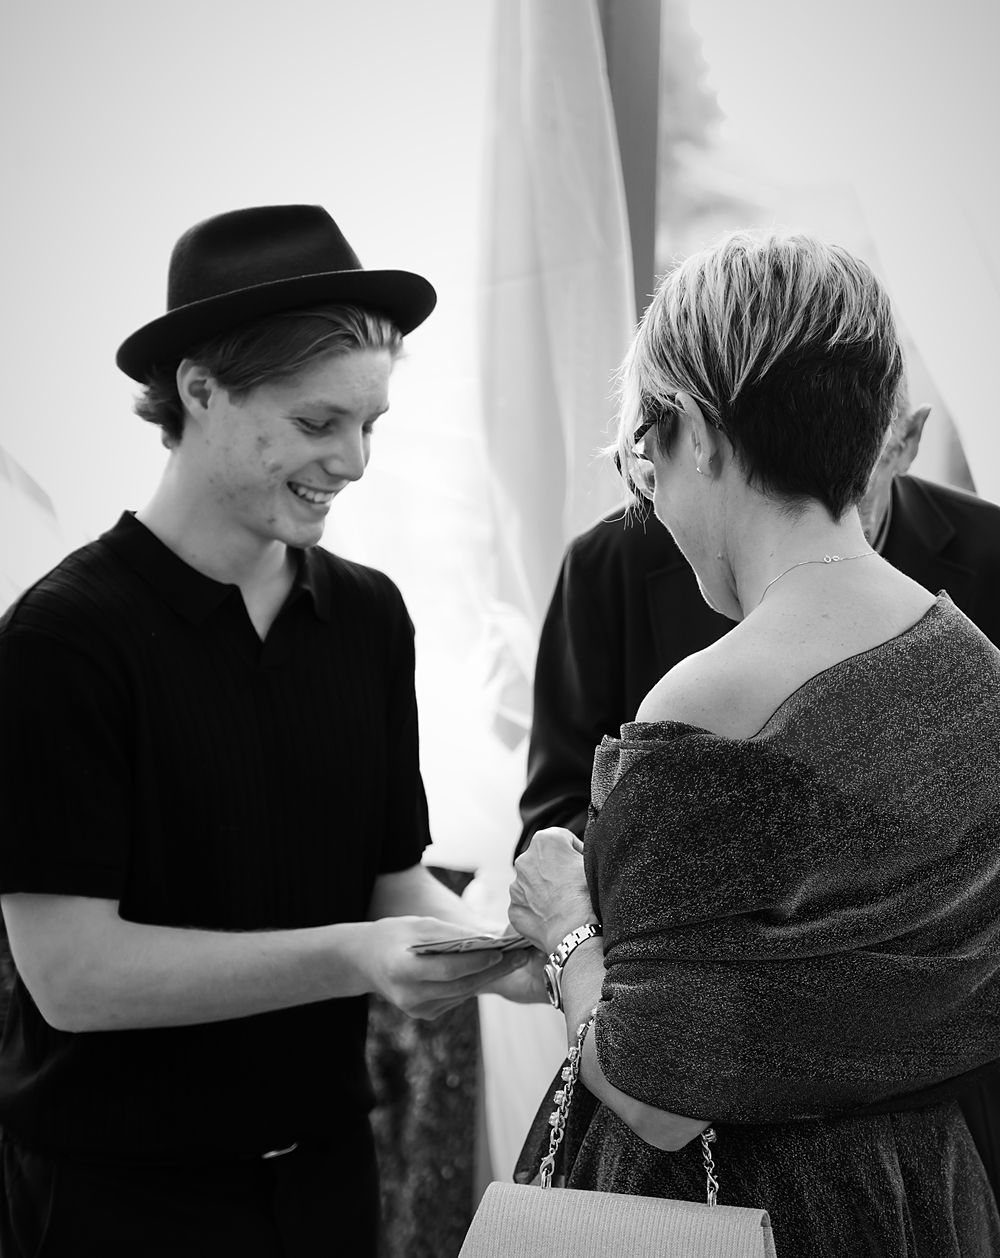
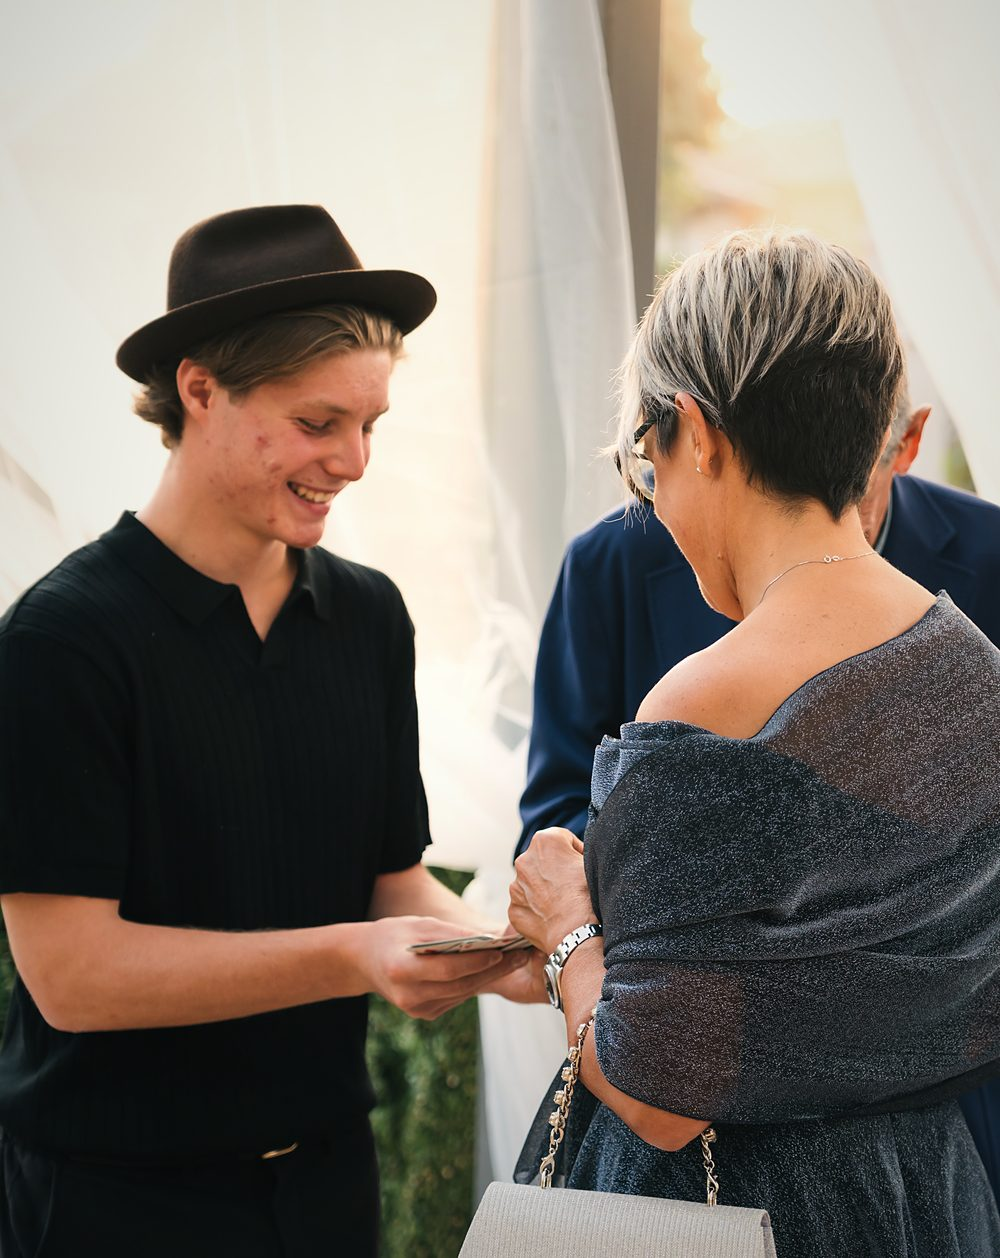
Richieste di Maxime: foto a colori, 3 M, telefono in primo piano, Instagram
- Firma "Mago Maxime" in alto e nel menu
- Apertura: Magia · Meraviglia · Memoria, pulsante Chiama
- Foto a colori ovunque tranne la scena in Lo spettacolo
- Chi sono: nuovi testi, firma e citazione
- Servizi: nuovi testi Illusionismo e Ipnosi; due foto in più tra gli ospiti
- Prenota: numero grande, WhatsApp e Instagram; barra Chiama su telefono
- Footer: nuova foto e blocco Instagram

diff --git a/DESIGN.md b/DESIGN.md
@@ -158,7 +158,7 @@ A two-material palette: void-black stage and chalk card stock, with ash greys fo
 - **Card Red** (red, #c8102e): the red of a real deck. It has exactly three jobs: hearts and diamonds (every `Suit` named cuori/quadri renders red), the primary ticket buttons (Prenota, Invia: red with chalk text, 5:1), and the red full stop (`<span class="pip">.</span>`) that closes each section heading. Text selection and `accent-color` follow it. Red on void is 3.4:1, so it is never used for body text on dark.
 
 ### Named Rules
-**The One Red Rule.** Red means "card", "book him" or "the curtain" (the menu's velvet drapes, a darker red family #3a0510–#a3162b). Never use it for decoration, borders, backgrounds of sections or body copy; if a new element wants red, it must be a heart/diamond or the booking action.
+**The One Red Rule.** In the interface (photos carry their own colour), red means "card", "book him" or "the curtain" (the menu's velvet drapes, a darker red family #3a0510–#a3162b). Never use it for decoration, borders, backgrounds of sections or body copy; if a new element wants red, it must be a heart/diamond or the booking action.
 
 **The Light Is Not A Colour Rule.** The follow-spot, house glow and beam are translucent warm-white over the void (`rgba(255, 252, 244, …)` at 0.02–0.11). Never tint light, never add an accent hue.
 
@@ -279,27 +279,37 @@ Every corner is rounded:
 - **Disabled submit:** 55% opacity with a progress cursor and an "Invio in corso…" label.
 
 ### Navigation
-- **Logo: the signature.** "Maxime" in a pen-signature hand with an underline swash (`src/components/Firma.astro`, pure SVG paths outlined from Herr Von Muellerhoff, SIL OFL), no capsule. It is drawn left to right as the page opens (1.5s clip reveal). It reads the first painted background beneath it and switches between chalk (dark ground, with a dark halo) and ink (light ground, with a chalk halo) so whatever scrolls under it never cuts the strokes. On phones (≤760px) it leaves the corner once the hero is passed; with the menu open it leaves the corner on every size and appears instead, large and chalk, on the closed curtain above the sections. The Menu control keeps its opaque void capsule.
+- **Logo: the signature.** "Mago Maxime" (nav and menu; plain "Maxime" as the signature under Chi sono) in a pen-signature hand with an underline swash (`src/components/Firma.astro`, pure SVG paths outlined from Herr Von Muellerhoff, SIL OFL), no capsule. It is drawn left to right as the page opens (1.5s clip reveal). It reads the first painted background beneath it and switches between chalk (dark ground, with a dark halo) and ink (light ground, with a chalk halo) so whatever scrolls under it never cuts the strokes. On phones (≤760px) it leaves the corner once the hero is passed; with the menu open it leaves the corner on every size and appears instead, large and chalk, on the closed curtain above the sections. The Menu control keeps its opaque void capsule.
 - "Prenota" is a red ticket stub. It is hidden below 560px; the menu stays.
 - **Menu: the stage curtain.** Opening it, two red velvet drapes (vertical folds, shadowed creases, light from above) slide in from the sides and unfurl until they meet: fast then settling (0.75s expo-out). Closing is the reverse feel: they part slowly, then whip away (0.65s ease-in). The sections are then written on the closed curtain in chalk Archivo, centred, with WhatsApp, email and Instagram below. Picking a section jumps the page behind the closed curtain, then the drapes part on that scene. Escape closes it, scroll is locked, the red nav ticket hides while it is open, and reduced motion swaps the movement for a fade.
 
 ### Booking (Prenota)
-- Under the heading, two ghost pills side by side: WhatsApp and Chiama (tel:), the ways to book without a form.
+- Under the heading, the phone first: "Chiamami" and the number set large (tel:, red phone glyph), then WhatsApp and Instagram pills side by side.
 - The ticket form asks only: event type (four suit chips), Nome*, Data dell'evento, Telefono o email* (one field, validated as a phone number or an email). No message field.
 - Phones (≤760px): the contact stub is hidden, since WhatsApp and Chiama already sit above the form; the form padding tightens. Wider screens keep the stub with name, channels and zone.
 
+### Hero
+- MAXIME (wordmark), then the rule of the three M stacked: MAGIA / MERAVIGLIA / MEMORIA in uppercase Archivo (500, 115% width, 1.9–3.4rem), each initial M in card red.
+- Actions: the red ticket **Chiama** (tel:, the number shown from 900px), WhatsApp (square key on phones, pill on desktop) and, on desktop only, a ghost pill "Richiedi un preventivo" to the form.
+
+### Chi sono
+- Title "Tu credi nella *magia*?" with a red question mark; his paragraph with the words he wrote in capitals set as uppercase semibold; on the side the hands photo, "Non esibisco uno spettacolo preconfezionato…", his signature; then the quote with "— Maxime".
+
+### Instagram
+- A block of its own in the footer (red Instagram glyph, "Seguimi su Instagram", the handle large) plus an Instagram pill beside WhatsApp in Prenota and in the contact stub.
+
 ### Footer
-- One last photo of Maxime on stage (`saluto.jpg` landscape, `saluto-telefono.jpg` 4:5 via `Photo`'s `mobile` prop) with "Ci vediamo alla prossima serata." and the red Prenota ticket.
+- One last photo of Maxime laughing among the guests (`saluto.jpg` landscape, `saluto-telefono.jpg` 4:5 via `Photo`'s `mobile` prop) with "Ci vediamo alla prossima serata." and the red Prenota ticket.
 - Phones: a 4:5 rounded card, words and ticket over a bottom gradient. ≥900px: words and ticket on the stage at the left (5fr), the photo at 3:2 on the right (7fr).
-- Below: Instagram, TikTok, YouTube and the © line in ash. No giant wordmark, no suit row.
+- Then the Instagram block, then Instagram, TikTok, YouTube and the © line in ash. No giant wordmark, no suit row.
 
 ### Mobile Booking Bar
-- Phones only (≤ 760px): a void capsule (22px radius) floating 12px above the bottom safe area, holding a full-width red ticket "Prenota" and a 52px WhatsApp button. It hides on the hero, the ticket act, the footer and when the menu is open.
+- Phones only (≤ 760px): a void capsule (22px radius) floating 12px above the bottom safe area, holding a full-width red ticket "Chiama" (tel:) and a 52px WhatsApp button. It hides on the hero (measured by scroll, since the hero is a sticky panel), on the booking act, the footer and when the menu is open.
 
 ### Photo slots
 - `public/maxime/ritratto|mani|scena.(jpg|png|webp)` render in grayscale. An optional `showreel.mp4` replaces the hero portrait. A missing file shows a dark slot naming the file to add.
-- The files are pre-graded to black and white (channel mix, S-curve, vignette; the hero background is darkened through a subject mask), so CSS only applies `grayscale(1)` as a guard. `Photo` takes an optional `position` (object-position) to keep Maxime in frame on phone and desktop crops.
-- **Live gallery** (end of Lo spettacolo): `live-1…4` at 4:5, rounded 18px, tilted ±1.2–1.4° like cards on the table. Phones swipe through a scroll-snap row; desktop shows four columns with the even ones dropped.
+- The photos are in **colour** (warm, gently contrasted, saturation +12%, soft vignette; the hero background is darkened through a subject mask). Only the stage photo in Lo spettacolo (`scena.jpg`) is graded black and white. CSS applies no filter. `Photo` takes an optional `position` (object-position) to keep Maxime in frame on phone and desktop crops.
+- **Live gallery** (end of Lo spettacolo): `live-1…5` at 4:5 (five columns on desktop), rounded 18px, tilted ±1.2–1.4° like cards on the table. Phones swipe through a scroll-snap row; desktop shows four columns with the even ones dropped.
 
 ### Theatre bill (Lo spettacolo)
 - The three arts are set as a playbill: each name in thin, expanded, uppercase Archivo (250, 118% width, clamp 2.1–4.6rem) with its small suit glyph, one ash line beside it (≥1000px) or under it. Hairlines between rows. The spiral glyph has 2.5 open turns so it holds at icon size.

diff --git a/PRODUCT.md b/PRODUCT.md
@@ -16,10 +16,12 @@ web
 Sito vetrina di Maxime, mago, illusionista e ipnotista. Deve far capire in pochi secondi che tipo di artista è, mostrare le tre arti (magia, illusionismo, ipnosi/mentalismo) e i tipi di evento, e portare il visitatore a una richiesta di preventivo (form, WhatsApp, telefono, email). Successo = richieste di contatto qualificate.
 
 ## Positioning
+Regola delle 3 M, in evidenza in apertura: **Magia · Meraviglia · Memoria**.
+
 Un solo artista che unisce magia da vicino, grandi illusioni e ipnosi/mentalismo, con spettacoli costruiti su misura per ogni evento. Il sito stesso deve "fare un effetto" (es. il trucco "Pensa a una carta"), non solo descriverlo.
 
 ## Operating Context
-- Contatto: form (Formspree da configurare, oggi fallback su email), WhatsApp, telefono, email, Instagram/TikTok/YouTube.
+- Contatto: **il telefono diretto ha la priorità** (pulsante Chiama in apertura e nella barra su telefono, numero grande in Prenota), poi WhatsApp, poi il modulo diviso per semi. Instagram è un canale fondamentale e va reso ben visibile. Numero, WhatsApp, email e profili social in `site.json` sono ancora SEGNAPOSTO.
 - Tipi di evento mappati sui semi delle carte: ♥ matrimoni e feste private, ♦ aziende e gala, ♣ teatro e spettacoli, ♠ close-up / magia da tavolo.
 - Zona: Italia ed estero.
 
@@ -31,7 +33,7 @@ Un solo artista che unisce magia da vicino, grandi illusioni e ipnosi/mentalismo
 ## Brand Commitments
 - Bianco e nero (grigi e luce ammessi) più un solo colore: il rosso delle carte da gioco, solo per cuori/quadri, il pulsante Prenota e il punto rosso che chiude i titoli (richiesta dell'utente, ottobre 2026).
 - Immaginario: magia, carte da gioco e i quattro semi, la mente/ipnosi, il palcoscenico.
-- Fotografie solo vere, di Maxime, in bianco e nero (`public/maxime/`): niente foto stock o generate.
+- Fotografie solo vere, di Maxime (`public/maxime/`), **a colori** quasi ovunque perché la sua magia è giocosa e festosa (richiesta di Maxime, ottobre 2026); in bianco e nero solo la foto di scena in "Lo spettacolo". Niente foto stock o generate.
 - Nome d'arte: "Maxime" / "Mago Maxime".
 
 ## Evidence on Hand
